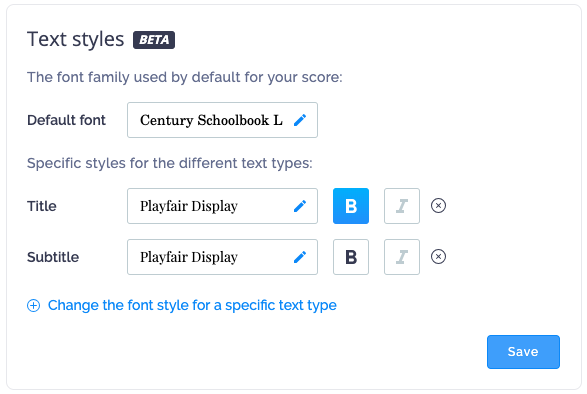
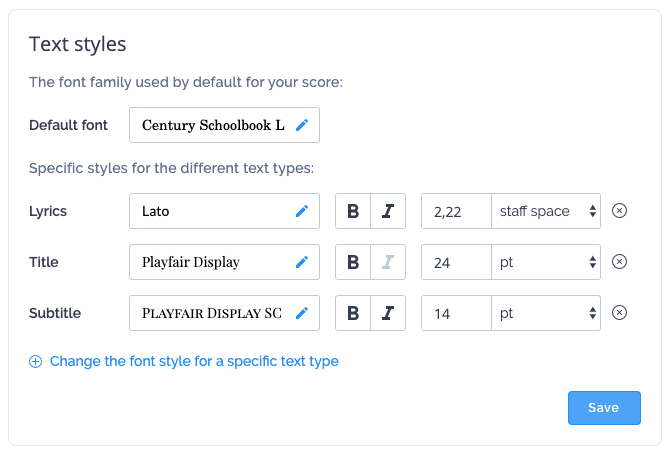
docs(fonts): add font-size

diff --git a/docs/en/editor/text-styles.md b/docs/en/editor/text-styles.md
@@ -22,7 +22,7 @@ In the *Layout settings*, scroll to *Text styles*. From there, you can set the d
 
 ## Adjusting specific texts styles
 
-You can also change the **font family for specific text types** (e.g. only the title of the score), and also adjust the **weight** (i.e. bold) and **style** (i.e. italic) of the font.
+You can also change the **font family for specific text types** (e.g. only the title of the score), and also adjust the **weight** (i.e. bold), **style** (i.e. italic) and the **size** of the font.
 
 ![List of text types](/help/assets/img/editor/text-font-specific-list.png)
 
@@ -30,9 +30,15 @@ For every specific text type, you can adjust the settings:
 
 ![List of text types](/help/assets/img/editor/text-font-specific-config.png){:.noBorder}
 
+## About font sizes
+
+The **sizes** of the different texts can be set in two different units: **points** and **staff space**:
+
+* **Points (pt)** is an **absolute unit** that you usually find in text editors. By default, we use this unit for text elements like the *title* and the *subtitle* that are not directly linked to your staves.
+* **Staff space (sp)** is a **relative unit** to your music staves, literally the space between two lines of the stave. By default, we use this unit for text elements that are linked to the staves, like *lyrics* and *chords*.
+
 ## Implementation notes: Default fonts
 
 Before March 2018, the default font was [**Noto Serif**](https://fonts.google.com/specimen/Noto+Serif). This default font has been changed on March 2018, and the new one is now **URW Century Schoolbook L** (licensed under GNU GPL v2). The Noto Serif font remains available in the list of font families.
 
 When using [the music font **Petaluma**](/help/en/music-notation-software/music-font-smufl.html), the default font will automatically be set to **Petaluma Script**.
-
